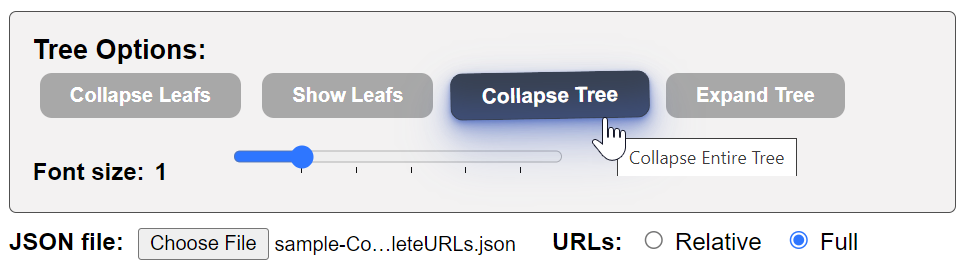
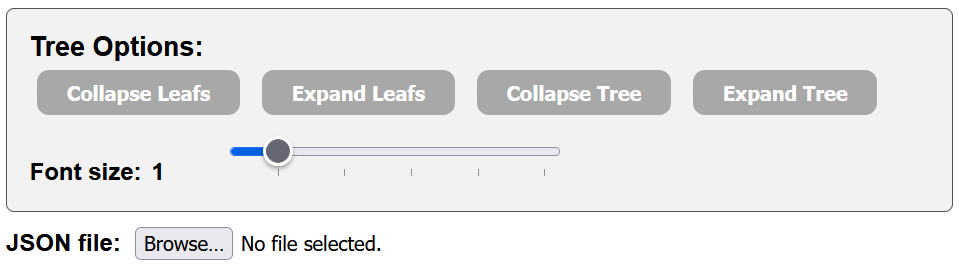
Remove manual selection of relative vs. full URLs; now automatic

diff --git a/arc-tree.js b/arc-tree.js
@@ -79,7 +79,7 @@ async function readJSONFile(file) {
 async function fileChange(file) {
   readJSONFile(file).then(
     json => {
-      console.log("%c" + "\n================\nRead new Json file: " + file.name + " with " + file.size + " char (" + (file.size / 1024).toFixed(1) + " KB), assuming " + (relativeUrlsBool ? "relative" : "full") + " URLS", "color:maroon;font-weight:bold;");
+      console.log("%c" + "\n================\nRead new Json file: " + file.name + " with " + file.size + " char (" + (file.size / 1024).toFixed(1) + " KB)", "color:maroon;font-weight:bold;");
       if (!validateJson(json)) {
         console.error("Invalid JSON: " + json);
         alert("Invalid JSON: " + json);
@@ -189,7 +189,6 @@ function uploadJson() {
 
 /// Tree Creation functionality =====================
 let expandedByDefault = true;
-let relativeUrlsBool = true; // If true, append child URLs to parent URL
 let listItemHTML = "";
 let listLog = ""; // For debugging, used to put each JSON node (with multiple keys) onto a single line
 
@@ -199,22 +198,12 @@ function clearArcTree(treeElement) {
   listLog = "";
 }
 
-/// Allow for JSON objects with relative/partial/incremental or complete/full URLs
-function relativeUrls(checked) {
-  relativeUrlsBool = checked;
-  if (verbose) console.log("relativeUrls: " + relativeUrlsBool);
-  clearArcTree(document.getElementById('unorderedArcTree'));
-  if (document.getElementById("arcTreeFile").value) {
-    fileChange(document.getElementById('arcTreeFile').files[0]);
-  }
-}
-
 /// <summary>
-/// Recurse through an 'o' JSON object & build up an HTML unordered list item (& listLog for debugging)
+/// Recurse through an 'obj' JSON object & build up an HTML unordered list item (& listLog for debugging)
 /// Parameters:
-/// 'o' is the JSON object to be processed, of the following form:
+/// 'obj' is the JSON object to be processed, of the following form:
 /***
-      o = {
+      obj = {
         "title": "title of web page",
         "url": "relative url of web page",
         "meta": "web page description",
@@ -230,11 +219,12 @@ function relativeUrls(checked) {
 /// 'url' is this this segment of the tree's full or cumulative (N.B., see above option) url.
 ///   Initial url should be blank (""): the code pulls the base/home URL from the JSON.
 /// </summary>
-let childUrl = "";
+
 
 function buildArcTree(obj, treeElement, url = "") {
   if (verbose) console.log("%c" + "buildArcTree: " + obj?.toString() + " url: '" + url + "'", "color:DarkOrchid;font-weight:bold;");
 
+  let childUrl = "";
   for (let key in obj) {
     //if (verbose) console.log("processing: " + i.toString());
 
@@ -262,13 +252,14 @@ function buildArcTree(obj, treeElement, url = "") {
         case "title": listItemHTML += "<b>" + obj[key] + "</b>"; break;
 
         case "url":
-          if (relativeUrlsBool) {
-            childUrl = url + obj[key];
-          } else {
+          // autodetect whether json is using relative or full urls
+          if (obj[key].startsWith("http")) {
             childUrl = obj[key];
+          } else {
+            childUrl = url + obj[key];
           }
           if (verbose) console.log("Child URL: " + childUrl + ";");
-          listLog += "Child URL: " + childUrl + "; relativeUrlsBool: " + relativeUrlsBool + ";  ";
+          listLog += "Child URL: " + childUrl + ";";
           listItemHTML += " (<a href='" + childUrl + "' target='_blank' rel='external' >" + childUrl + "</a>): ";
           break;
 
@@ -330,7 +321,7 @@ function buildArcTree(obj, treeElement, url = "") {
         treeElement.appendChild(newUL);
       } else if (obj[key] instanceof Object) {
         // no need to create a new UL for non-arrays
-        //newUL = treeElement;
+        // newUL = treeElement;
       }
 
       if (verbose) console.group("children of " + key);

diff --git a/arc-tree.html b/arc-tree.html
@@ -76,38 +76,6 @@
           id="arcTreeFile"
         />
       </label>
-      <!-- 
-        <label title="Switch between relative/incremental or full/complete URLs">
-          <input
-            type="checkbox"
-            onChange="relativeUrls(this.checked)"
-            id="arcTreeUrl"
-            checked
-          />
-          <span id="arcTreeUrlSpan">Relative URLs</span>
-        </label>
-      -->
-      <label title="File uses: relative/incremental or full/complete URLs">
-        <span id="relativeRadio"> &nbsp; URLs: </span>
-        <input
-          type="radio"
-          id="relative"
-          name="arcTreeUrl"
-          value="Relative"
-          checked
-          onchange="relativeUrls(true)"
-        />
-        <label for="relative">Relative &nbsp; </label>
-
-        <input
-          type="radio"
-          id="full"
-          name="arcTreeUrl"
-          value="Full"
-          onchange="relativeUrls(false)"
-        />
-        <label for="full">Full</label>
-      </label>
 
       <ul id="unorderedArcTree" class="tree"></ul>
     </div>

diff --git a/README.md b/README.md
@@ -1,6 +1,6 @@
 # ArcTree
 
-> Create nicely formatted unordered list with arcs from JSON files with
+> Create nicely formatted, unordered list with arcs from JSON files with
 > expand/collapse options &amp; variable font size.
 
 ![ArcTree](imgs/ArcTree.png)
@@ -28,10 +28,6 @@ collapsing or expanding the whole tree:
   em in 0.5 increments.
 - **Browse** button allows selecting a JSON file formatted as shown above. Upon
   being selected, any existing tree is cleared and rebuilt.
-- **URLs: Relative/Full** allows users to express whether their json file
-  provides relative/incremental URLs or full/complete URLs. If changed, any
-  existing tree is cleared and if a file has previously been selected, the tree
-  is rebuilt.
 
 ## Formatting
 
@@ -46,41 +42,43 @@ JSON files are expected to be formatted as:
 ```JSON
 {
     "title": "web page title",
-    "url": "web page url",
+    "url": "https://www.sample.com",
     "meta": "web page description",
     "children": [
         {
             "title": "child page title",
-            "url": "child page url",
+            "url": "/1st-child",
             "meta": "child page description",
             "children": [{...}, {...}]
         },
         {
-            "title": "child page title",
-            "url": "child page url",
-            "meta": "child page description",
+            "title": "another child page title",
+            "url": "/2nd-child",
+            "meta": "another child page description",
             "children": []
         }
     ]
 }
 ```
 
+- URLs can be relative/incremental to their parent or fully-specified/complete
+  URLs. If a url begins with "http", it is assumed to be a full url, otherwise
+  the parent url will be prepended.
 - Try https://duckduckgo.com/?q=json+validator as a nice way to spot formatting
   errors.
-- URLs can be relative/incremental to their parent or specified completely, as
-  noted in the Options section above.
 - Only the initial call to `buildArcTree()` should ignore the optional URL
   value. If so, the first url in the JSON file will be automatically selected as
   the is hardcoded in the `arc-tree.js` file! Search for
   `baseUrl = "https:\\fema.gov"` in the function `fileChange()` & manually
   change this for your situation.
-- If the `children` node is missing, the tree will be built, but they won't be
-  considered leafs & won't be collapsed if the user clicks the _Collapse Leafs_
-  button.
+- The `children` node is essential, but can be an empty array (i.e., a leaf):
+  `"children"=[]`
 - Additional attributes (akin to "title", "meta", or "url") can be included for
   each node, but will be denoted with "[Unknown node (" in the tree display.
   Adding new cases to the `switch` statement in `function buildArcTree` in the
-  `arc-tree.js` file should be pretty trivial though.
+  `arc-tree.js` file should be pretty trivial though. See the code comment.
+- Adding additional arrays will require some coding, but the current code should
+  provide some hints to make it 'fairly' painless.
 - When opened, JSON files are validated just by seeing they have success with
   JSON.parse currently. In the future we may enable AJX validation which is more
   sophisticated. Read more about it at: https://www.npmjs.com/package/ajv.
@@ -90,7 +88,7 @@ JSON files are expected to be formatted as:
 - By default, the `arc-tree.js` file has `let verbose = false;` at the top.
   Change this to `true` if you wish to track output and see errors, warnings and
   verbose information. These can be viewed by opening any browser's developers
-  tools(F12 by convention) and then it's 'console window'.
+  tools (`F12` by convention) and then it's 'console window'.
 
 ## License & Copyright
 
@@ -102,4 +100,4 @@ arcs! Their original sample provided the inspiration for this project.
 
 ©2024, https://eoc.online
 
-Credit for reuse of this is always appreciated!
+Credit for reuse of this code is always appreciated!
